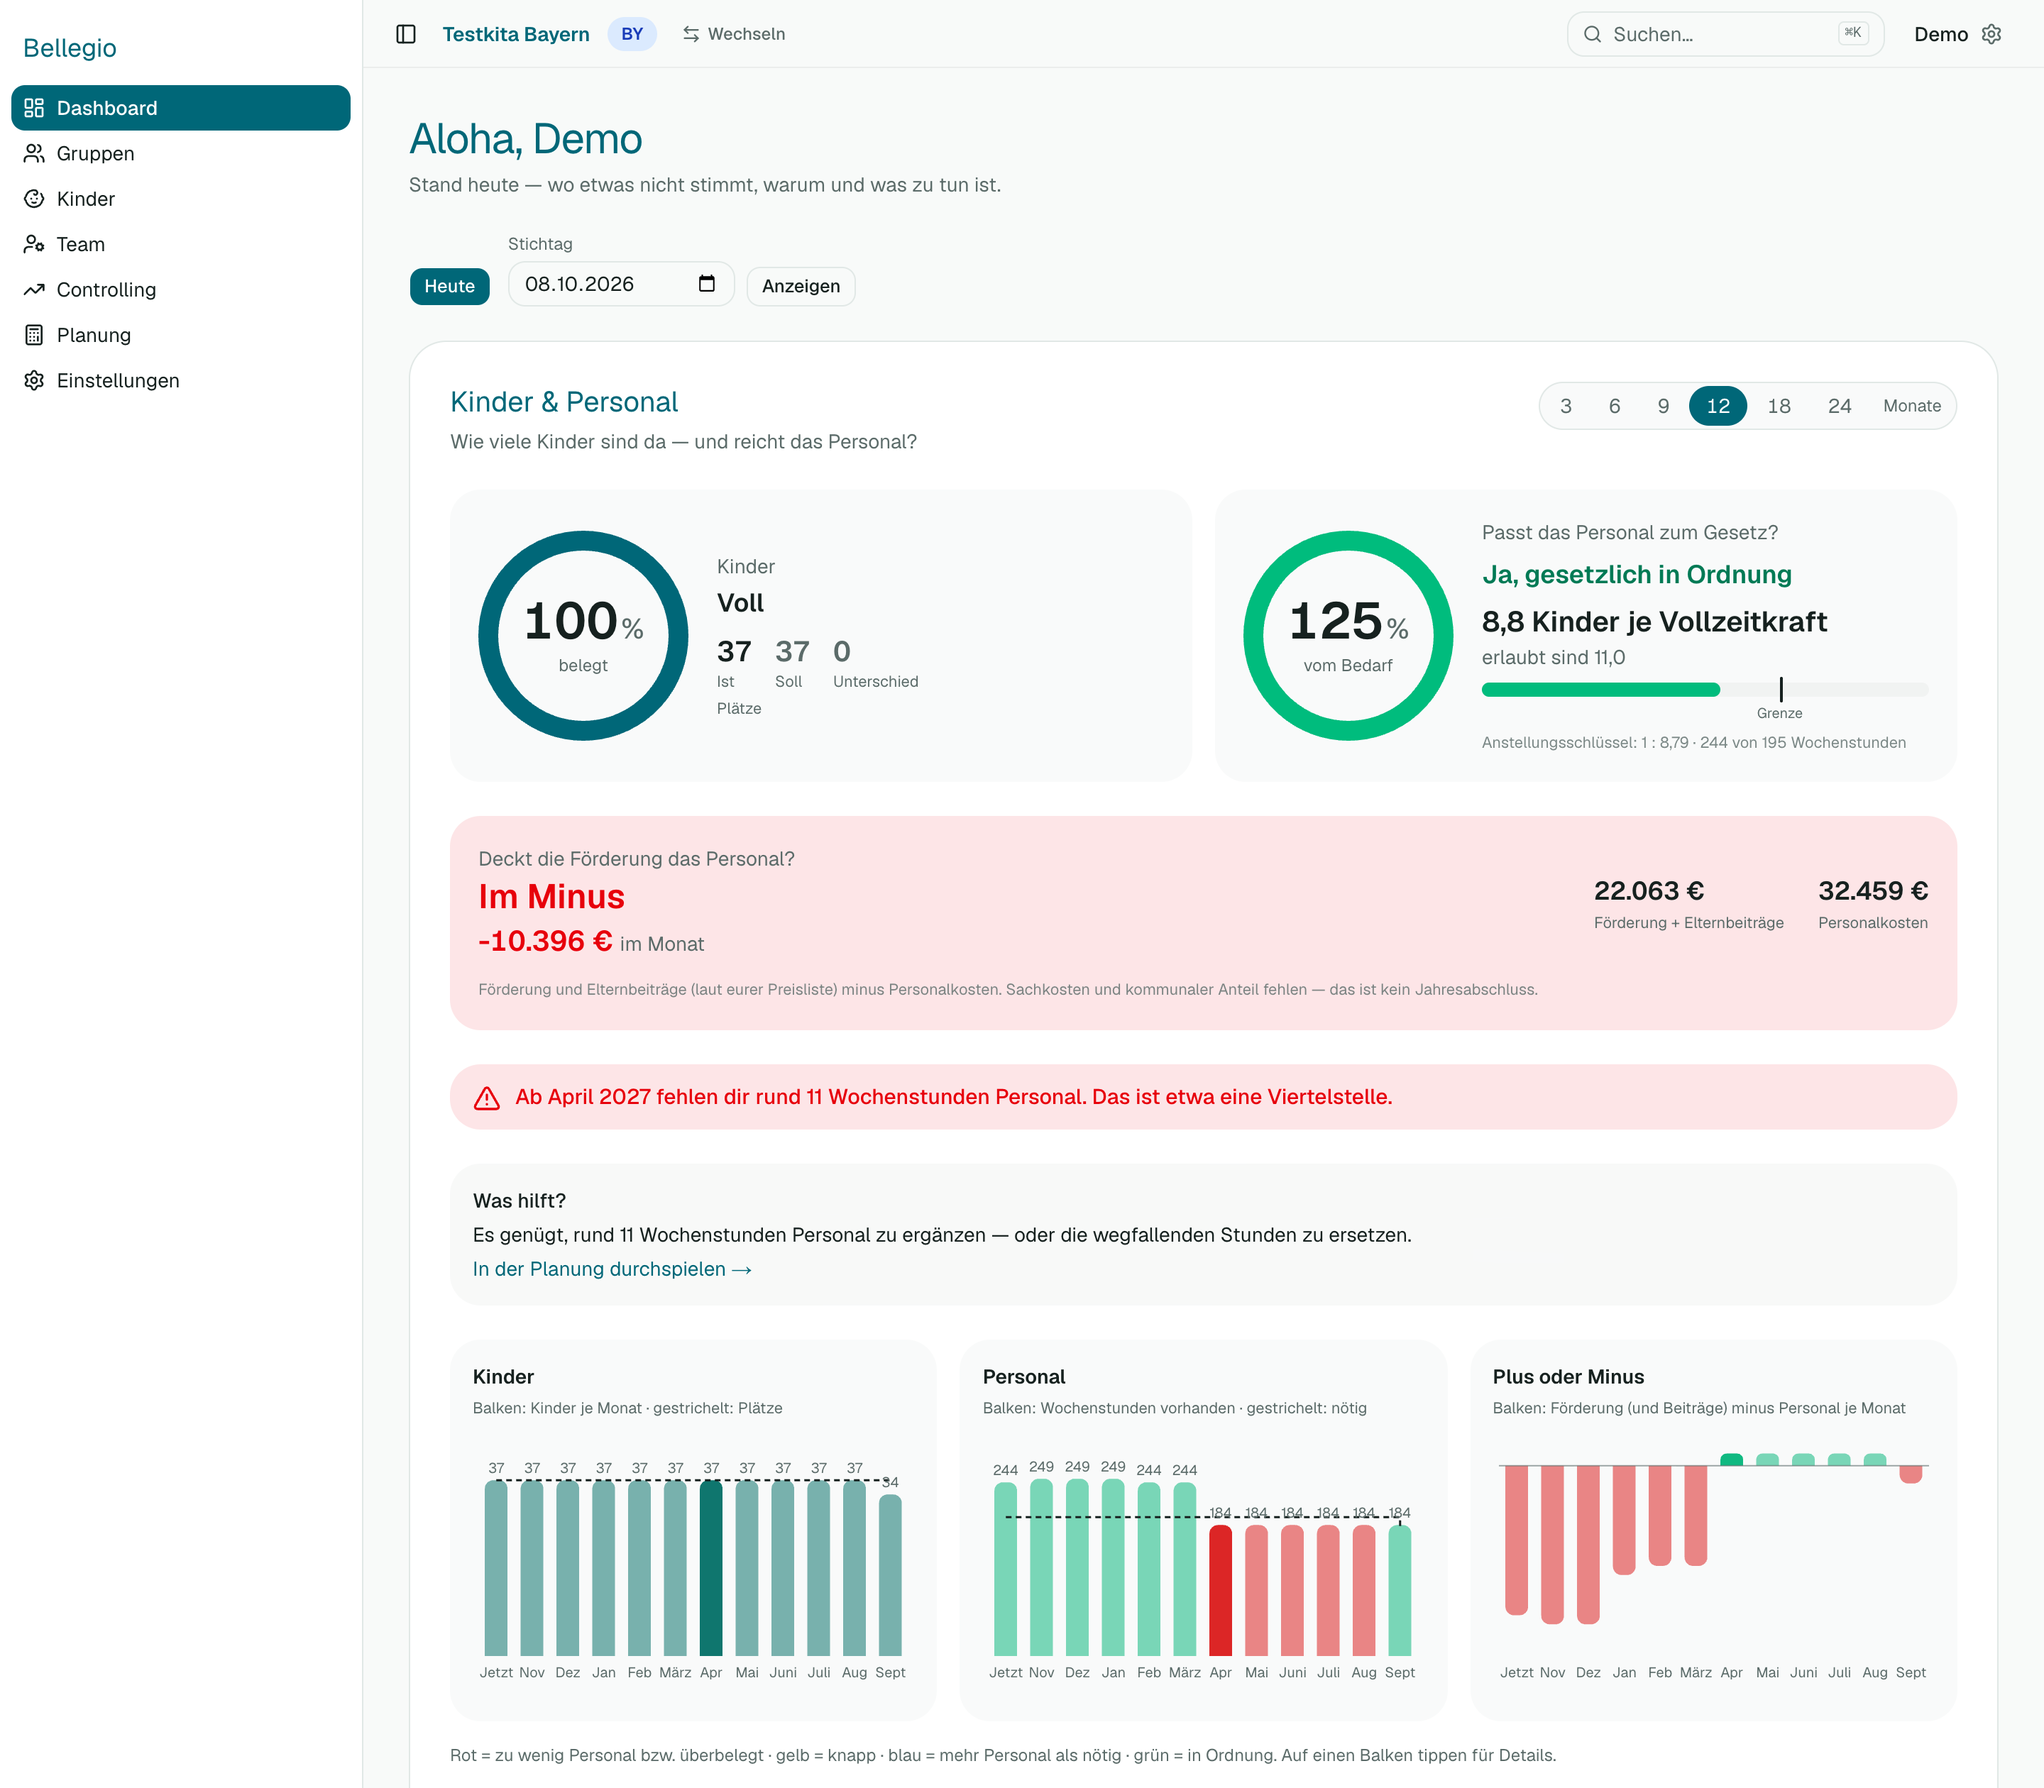
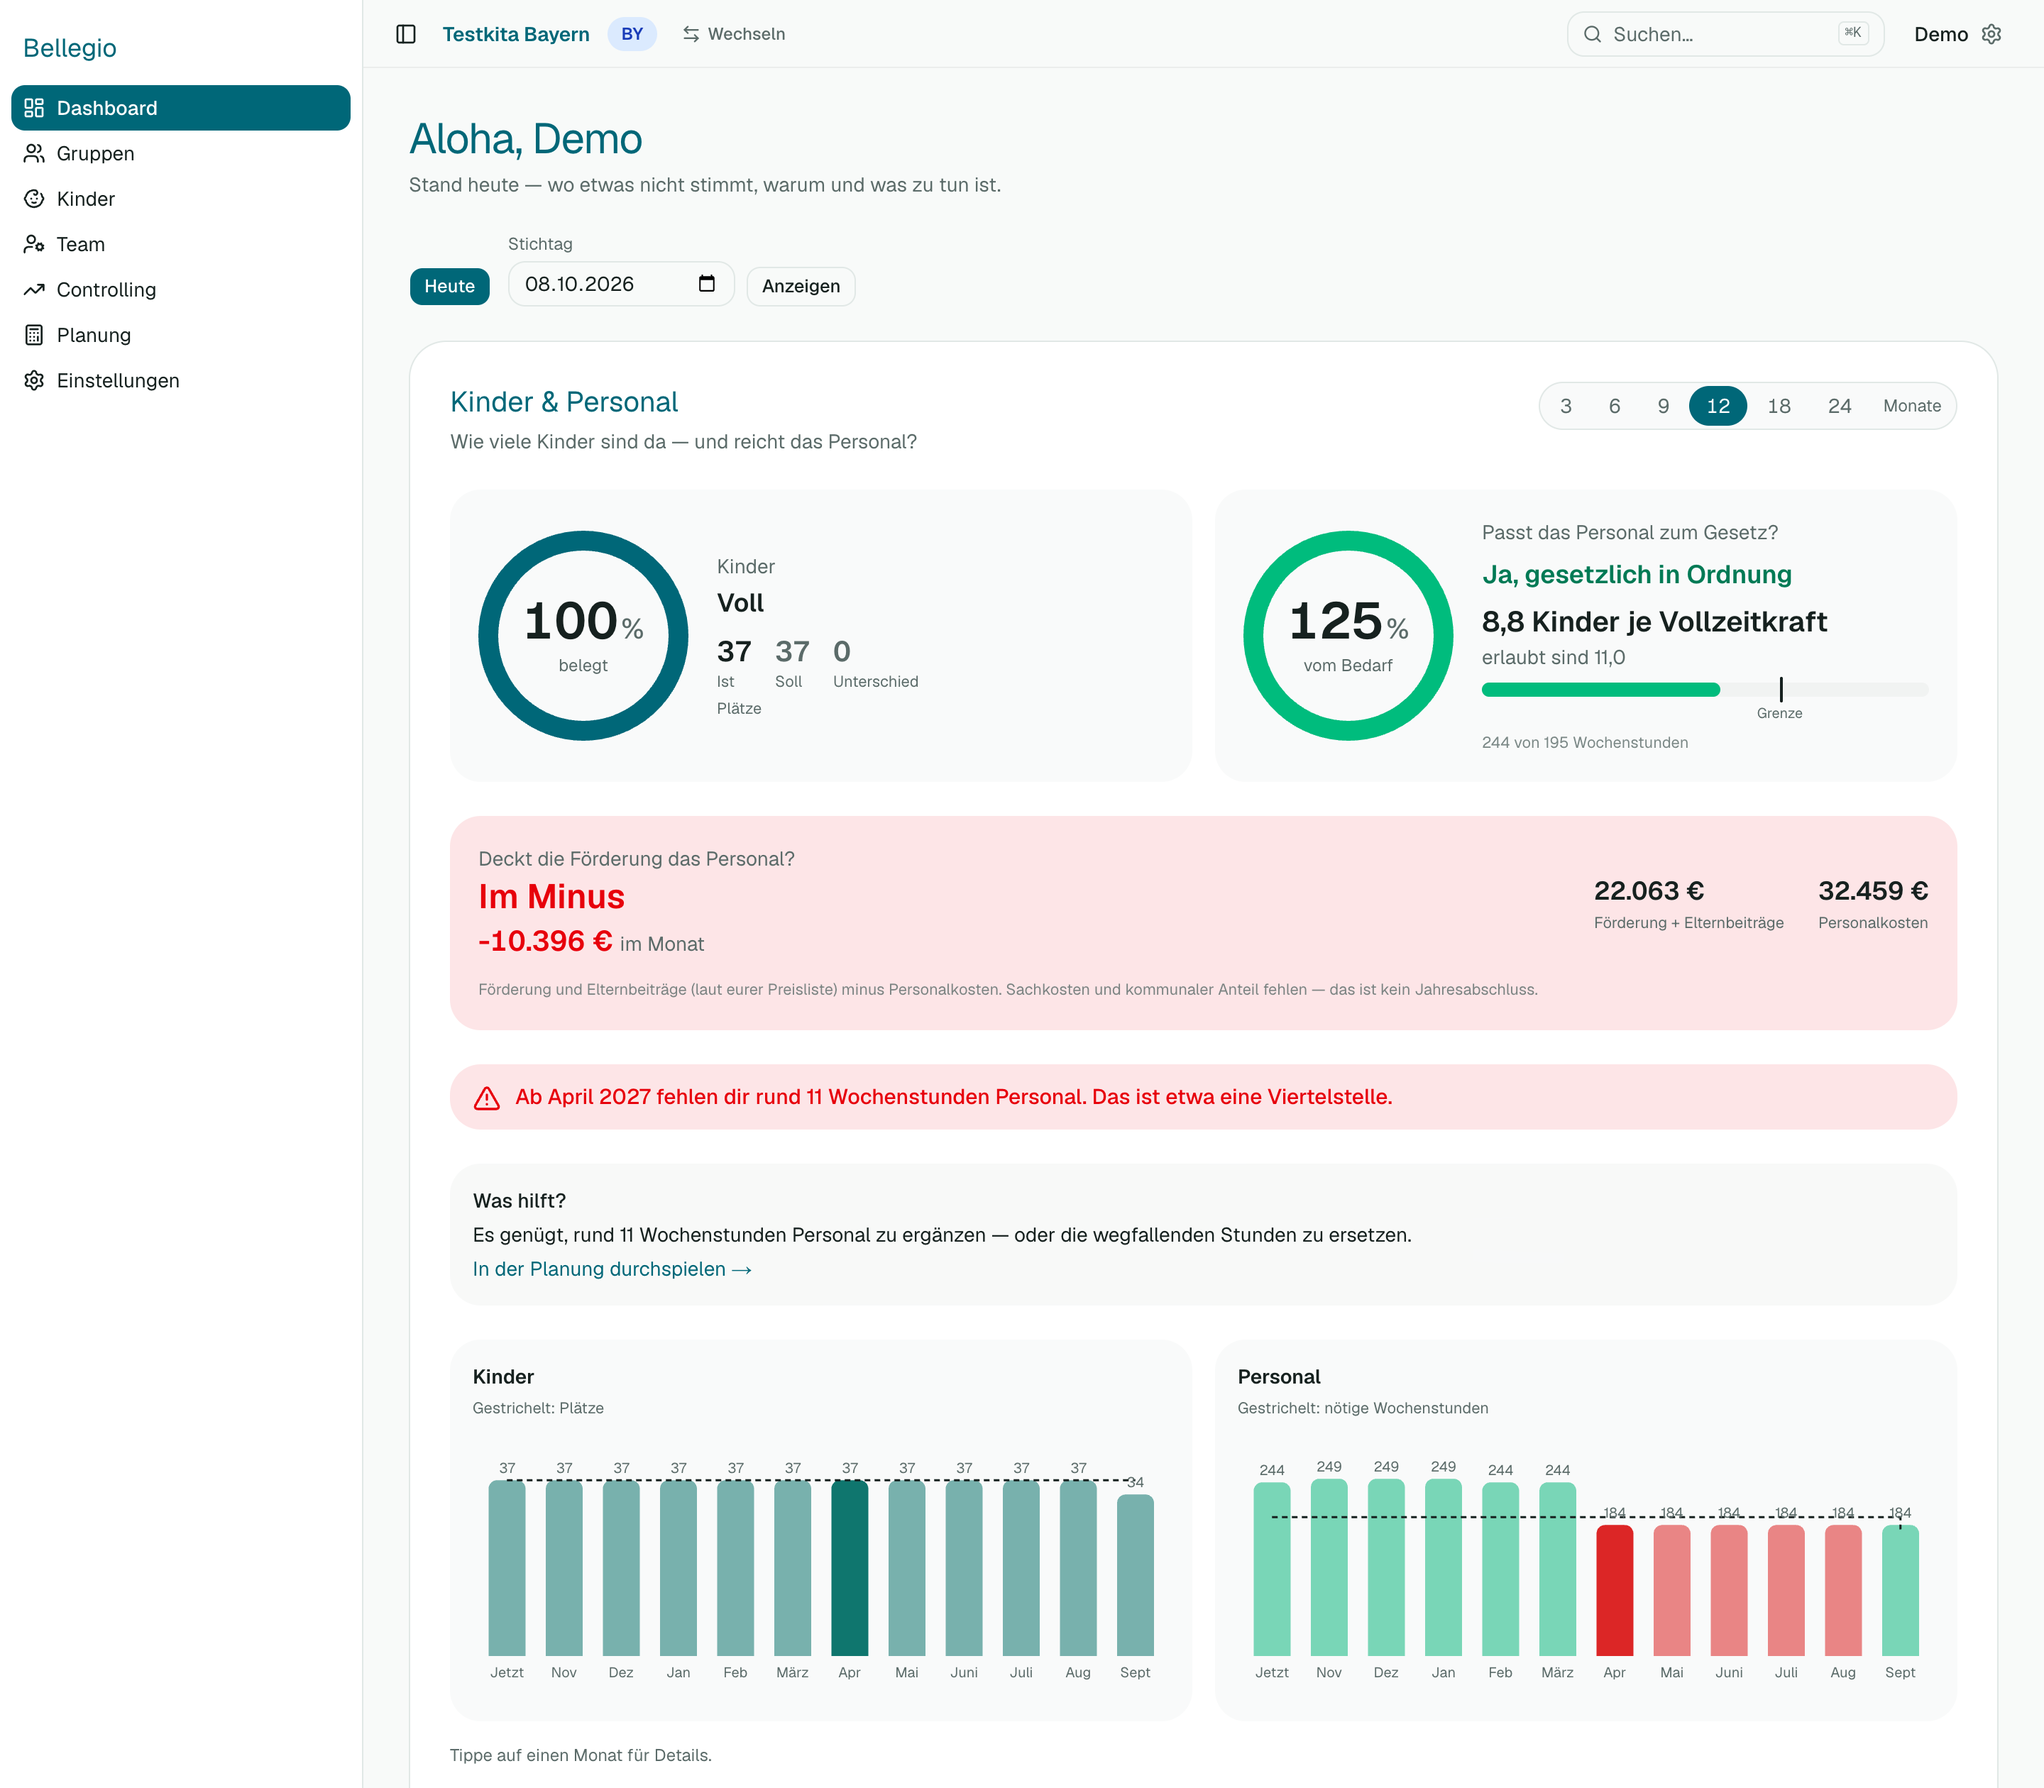
Dashboard: Doppelungen entfernt — nur zwei Diagramme (Kinder, Personal), Detailkarte nur für andere Monate, kürzere Beschriftungen; Landing-Bilder neu

diff --git a/components/dashboard/cockpit.tsx b/components/dashboard/cockpit.tsx
@@ -3,7 +3,7 @@
 import Link from "next/link";
 import { useState } from "react";
 import { AlertTriangle, CheckCircle2, Info } from "lucide-react";
-import { Bar, Cell, ComposedChart, LabelList, Line, ReferenceLine, ResponsiveContainer, XAxis, YAxis } from "recharts";
+import { Bar, Cell, ComposedChart, LabelList, Line, ResponsiveContainer, XAxis, YAxis } from "recharts";
 import { Ring } from "@/components/dashboard/ring";
 import type { CockpitDaten, GeldKarte, MonatsStatus } from "@/lib/steuerung/cockpit";
 import type { Ampel } from "@/lib/team/anstellungsschluessel";
@@ -57,10 +57,6 @@ const GESETZ_KLASSE: Record<Ampel, string> = {
 const GESETZ_FUELLUNG: Record<Ampel, string> = { gruen: "bg-emerald-500", gelb: "bg-amber-500", rot: "bg-destructive" };
 
 const euroGanz = (n: number) => n.toLocaleString("de-DE", { style: "currency", currency: "EUR", maximumFractionDigits: 0 });
-function kurzEuro(n: number): string {
-  if (Math.abs(n) >= 1000) return `${(n / 1000).toLocaleString("de-DE", { maximumFractionDigits: 1 })}T€`;
-  return `${Math.round(n)}€`;
-}
 
 /** Messbalken: wie nah ist das Personal an der gesetzlichen Grenze? Der Strich in der Mitte ist die Grenze — links davon ist alles in Ordnung. */
 function GrenzBalken({ anteil, ton }: { anteil: number; ton: Ampel }) {
@@ -127,7 +123,6 @@ type DiagrammPunkt = {
   personalIst: number;
   personalSoll: number;
   status: MonatsStatus;
-  ergebnis: number | null;
 };
 
 /** Ein einfaches Balkendiagramm: Balken = Ist, gestrichelte Stufe = Soll. Klick/Tipp wählt den Monat. */
@@ -140,24 +135,20 @@ function DiagrammKarte({
   gewaehlt,
   onWahl,
   farbe,
-  euro,
 }: {
   titel: string;
   hinweis: string;
   daten: DiagrammPunkt[];
-  wertKey: "kinder" | "personalIst" | "ergebnis";
+  wertKey: "kinder" | "personalIst";
   sollKey?: "plaetze" | "personalSoll";
   gewaehlt: number;
   onWahl: (i: number) => void;
   farbe: (d: DiagrammPunkt) => string;
-  /** Beträge in Euro (Balken dürfen unter null gehen). */
-  euro?: boolean;
 }) {
-  const werte = daten.map((d) => d[wertKey] ?? 0);
+  const werte = daten.map((d) => d[wertKey]);
   const hoechst = Math.max(1, ...werte, ...(sollKey ? daten.map((d) => d[sollKey]) : []));
-  const tiefst = euro ? Math.min(0, ...werte) : 0;
   // Euro-Beträge sind lang: nur bei wenigen Balken beschriften, sonst steht der Wert des gewählten Monats in der Detailkarte.
-  const beschriftet = daten.length <= (euro ? 6 : 12);
+  const beschriftet = daten.length <= 12;
   return (
     <div className="flex flex-col gap-1 rounded-2xl bg-secondary/40 p-4">
       <p className="text-sm font-semibold">{titel}</p>
@@ -174,15 +165,14 @@ function DiagrammKarte({
             }}
           >
             <XAxis dataKey="label" tickFormatter={(l: string) => l.split(" ")[0].replace(".", "")} tickLine={false} axisLine={false} interval={daten.length > 12 ? 2 : 0} tick={{ fontSize: 10, fill: "var(--muted-foreground)" }} />
-            <YAxis hide domain={[tiefst < 0 ? tiefst * 1.2 : 0, Math.ceil(hoechst * 1.15)]} />
+            <YAxis hide domain={[0, Math.ceil(hoechst * 1.15)]} />
             <Bar dataKey={wertKey} radius={[6, 6, 0, 0]} isAnimationActive={false} cursor="pointer">
               {daten.map((d, i) => (
                 <Cell key={i} fill={farbe(d)} fillOpacity={i === gewaehlt ? 1 : 0.55} />
               ))}
-              {beschriftet ? <LabelList dataKey={wertKey} position="top" fontSize={10} fill="var(--muted-foreground)" formatter={euro ? (v: unknown) => kurzEuro(Number(v)) : undefined} /> : null}
+              {beschriftet ? <LabelList dataKey={wertKey} position="top" fontSize={10} fill="var(--muted-foreground)" /> : null}
             </Bar>
             {sollKey ? <Line type="stepAfter" dataKey={sollKey} stroke="var(--foreground)" strokeWidth={1.5} strokeDasharray="4 3" dot={false} isAnimationActive={false} /> : null}
-            {euro ? <ReferenceLine y={0} stroke="var(--muted-foreground)" strokeOpacity={0.6} /> : null}
           </ComposedChart>
         </ResponsiveContainer>
       </div>
@@ -222,7 +212,6 @@ export function Cockpit({
     status === "fehlt" ? "text-destructive" : status === "knapp" ? "text-amber-500" : status === "ueberhang" ? "text-sky-500" : "text-emerald-500";
 
   const daten: DiagrammPunkt[] = reihe.map((m, i) => ({
-    ergebnis: m.ergebnis,
     label: i === 0 ? jetztLabel : m.label,
     kinder: m.kinder,
     plaetze: m.plaetze,
@@ -297,7 +286,7 @@ export function Cockpit({
             </div>
             <GrenzBalken anteil={jetzt.gesetz.anteil} ton={jetzt.gesetz.ton} />
             <span className="text-[11px] text-muted-foreground/80">
-              {jetzt.fachKennzahl.label}: {jetzt.fachKennzahl.value} · {jetzt.personalIst.toLocaleString("de-DE")} von {jetzt.personalSoll.toLocaleString("de-DE")} Wochenstunden
+              {jetzt.personalIst.toLocaleString("de-DE")} von {jetzt.personalSoll.toLocaleString("de-DE")} Wochenstunden
             </span>
           </div>
         </Link>
@@ -331,10 +320,10 @@ export function Cockpit({
       ) : null}
 
       <div className="flex flex-col gap-4">
-        <div className={cn("grid gap-4 lg:grid-cols-2", cockpit.geld && "xl:grid-cols-3")}>
+        <div className="grid gap-4 lg:grid-cols-2">
           <DiagrammKarte
             titel="Kinder"
-            hinweis="Balken: Kinder je Monat · gestrichelt: Plätze"
+            hinweis="Gestrichelt: Plätze"
             daten={daten}
             wertKey="kinder"
             sollKey="plaetze"
@@ -344,7 +333,7 @@ export function Cockpit({
           />
           <DiagrammKarte
             titel="Personal"
-            hinweis="Balken: Wochenstunden vorhanden · gestrichelt: nötig"
+            hinweis="Gestrichelt: nötige Wochenstunden"
             daten={daten}
             wertKey="personalIst"
             sollKey="personalSoll"
@@ -352,27 +341,15 @@ export function Cockpit({
             onWahl={setGewaehlt}
             farbe={(d) => PUNKT_HEX[d.status]}
           />
-          {cockpit.geld ? (
-            <DiagrammKarte
-              titel="Plus oder Minus"
-              hinweis="Balken: Förderung (und Beiträge) minus Personal je Monat"
-              daten={daten}
-              wertKey="ergebnis"
-              gewaehlt={gewaehlt}
-              onWahl={setGewaehlt}
-              farbe={(d) => ((d.ergebnis ?? 0) >= 0 ? "#10b981" : "#dc2626")}
-              euro
-            />
-          ) : null}
         </div>
         <p className="text-xs text-muted-foreground">
-          Rot = zu wenig Personal bzw. überbelegt · gelb = knapp · blau = mehr Personal als nötig · grün = in Ordnung. Auf einen Balken tippen für Details.
+          Tippe auf einen Monat für Details.
         </p>
 
-        {aktuell ? (
+        {aktuell && gewaehlt > 0 ? (
           <div className="flex flex-col gap-1 rounded-2xl border p-4" aria-live="polite">
             <p className="flex flex-wrap items-center gap-x-2 text-sm">
-              <span className="font-semibold">{gewaehlt === 0 ? jetztLabel : aktuell.label}</span>
+              <span className="font-semibold">{aktuell.label}</span>
               <span className={cn("font-medium", WORT_KLASSE[aktuell.status])}>· {WORT[aktuell.status]}</span>
             </p>
             <div className="flex flex-wrap gap-x-8 gap-y-2 py-1">
@@ -394,9 +371,7 @@ export function Cockpit({
                 in diesem Monat
               </p>
             ) : null}
-            <p className="text-sm">{aktuell.text}</p>
             {aktuell.ereignisse.length > 0 ? <p className="text-sm text-muted-foreground">{aktuell.ereignisse.join(" · ")}</p> : null}
-            <p className="text-[11px] text-muted-foreground/80">{aktuell.fachlich}</p>
           </div>
         ) : null}
       </div>
